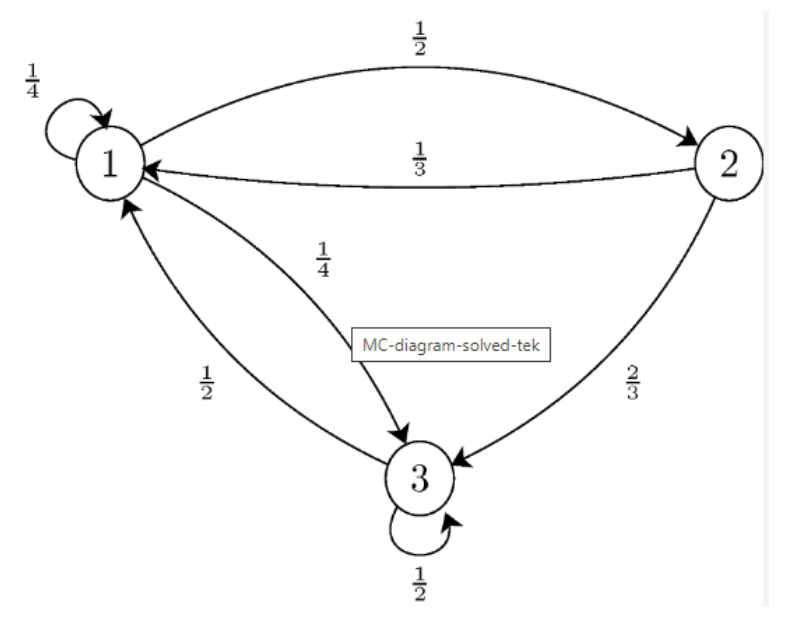
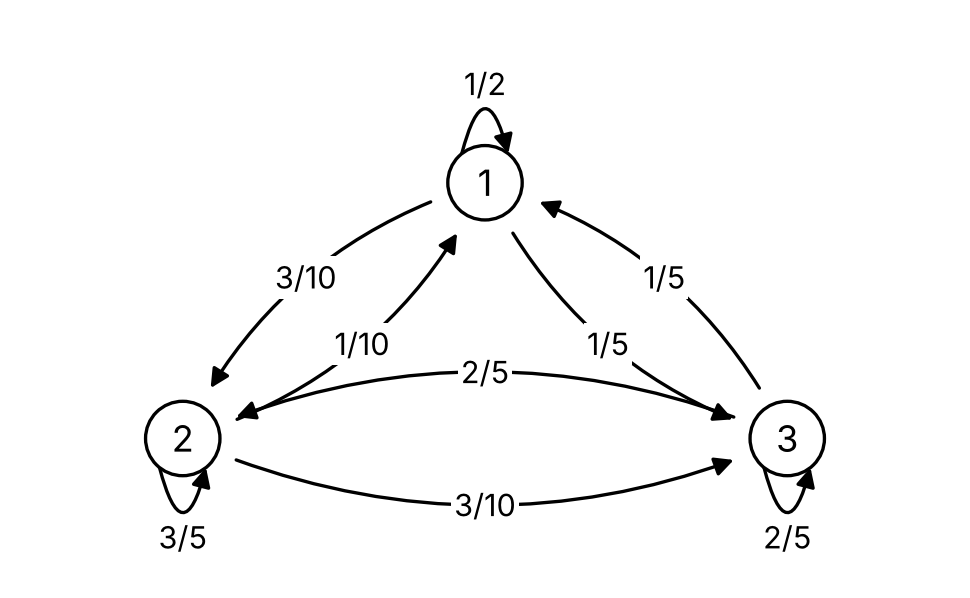
Update session 08 Markov chains README and Ex4_1 figure

diff --git a/08_Markov_Chains/README.md b/08_Markov_Chains/README.md
@@ -100,7 +100,23 @@ A component is either Working or Failed. During each hour, a working component f
 
     With state order \((W,F)\), \(P=\begin{pmatrix}0.98&0.02\\0.30&0.70\end{pmatrix}\). The probabilities of being Failed are \(p^{(2)}_{WF}=0.0336\) and \(p^{(10)}_{WF}\approx0.0612\).
 
-#### Exercise 4 — Estimating a transition matrix
+#### Exercise 4 — Reading a transition diagram
+
+Consider the Markov chain with state space \(S=\{1,2,3\}\) in the figure below.
+
+<img src="src/Ex4_1.png">
+
+1. Write down the transition matrix \(P\) and check that every row sums to 1.
+2. Find the probability that the chain is in state 3 two steps after being in state 1, i.e. \(p^{(2)}_{13}\). List the paths and add their probabilities.
+3. Assume \(\pi^{(0)}=(0.5,\,0.3,\,0.2)\). Find \(\pi^{(2)}\) and \(P(X_0=1,X_1=2,X_2=3)\).
+4. Verify part 2 with \(P^2\) in Python.
+
+???answer
+    1. \(P=\begin{pmatrix}0.5&0.3&0.2\\0.1&0.6&0.3\\0.2&0.4&0.4\end{pmatrix}\)
+    2. \(p^{(2)}_{13}=0.5\cdot0.2+0.3\cdot0.3+0.2\cdot0.4=0.27\)
+    3. \(\pi^{(2)}=(0.255,\,0.450,\,0.295)\) and \(P(X_0=1,X_1=2,X_2=3)=0.5\cdot0.3\cdot0.3=0.045\)
+
+#### Exercise 5 — Estimating a transition matrix
 
 An observed state sequence is
 
